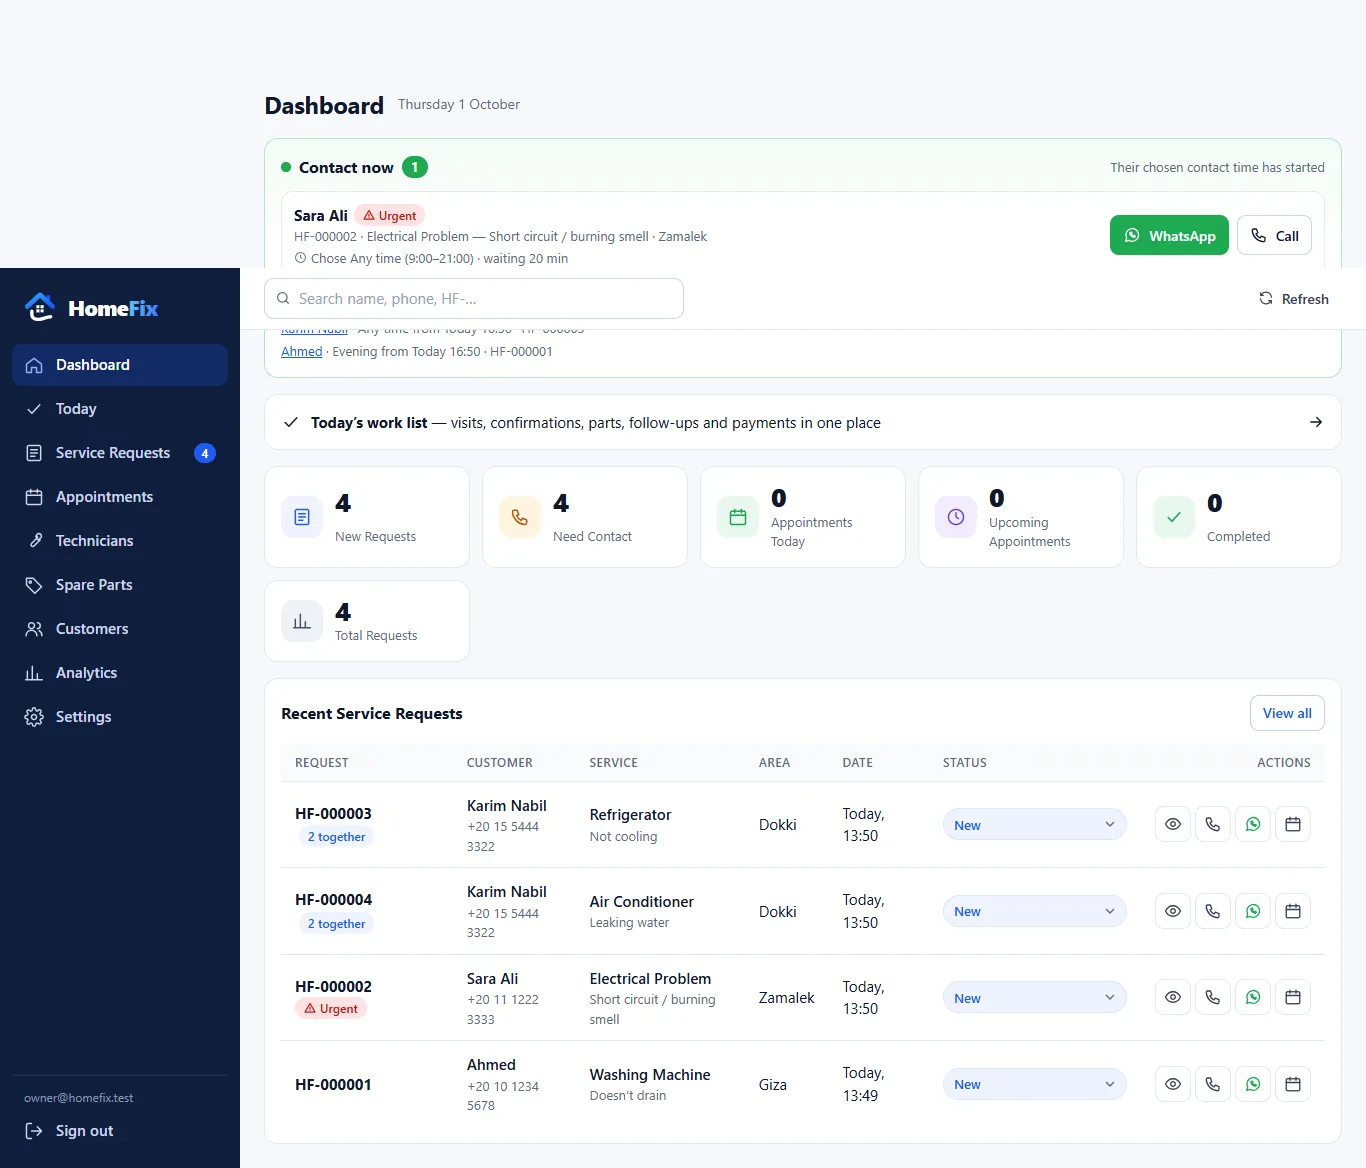
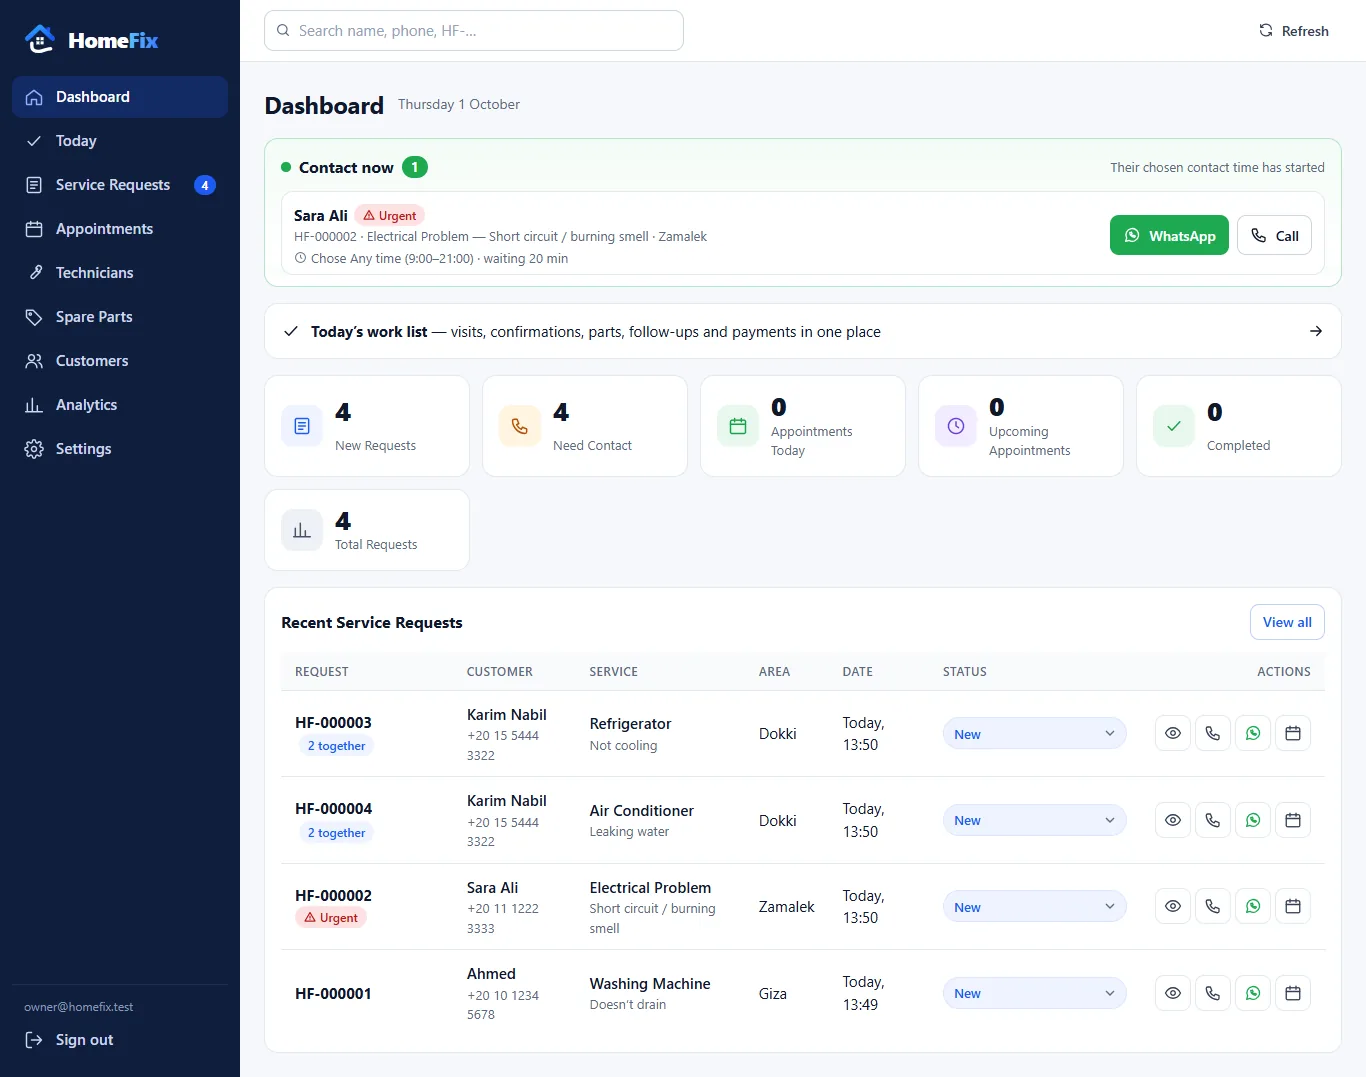
Fix broken HomeFix dashboard screenshot, add email and WhatsApp contact

diff --git a/index.html b/index.html
@@ -22,7 +22,7 @@
 <body>
 <!--
   EDIT BEFORE PUBLISHING — every link that needs your real value is marked TODO:
-  your email, WhatsApp number, the two live demo URLs and your GitHub.
+  the two live demo URLs.
 -->
 
 <header class="nav">
@@ -44,7 +44,7 @@
   <!-- HERO -->
   <section class="hero wrap">
     <div class="hero-art" aria-hidden="true">
-      <img class="ha-browser" src="assets/img/homefix-dashboard.webp" alt="" width="1366" height="1168">
+      <img class="ha-browser" src="assets/img/homefix-dashboard.webp" alt="" width="1366" height="1077">
       <img class="ha-phone" src="assets/img/baseline-home.webp" alt="" width="470" height="780">
     </div>
     <p class="eyebrow"><span class="dot"></span> Available for freelance projects</p>
@@ -127,7 +127,7 @@
           </figure>
           <figure class="browser">
             <div class="bar"><i></i><i></i><i></i><span>Admin dashboard</span></div>
-            <img src="assets/img/homefix-dashboard.webp" alt="HomeFix admin dashboard listing new service requests, with WhatsApp and call buttons" width="1366" height="1168" loading="lazy">
+            <img src="assets/img/homefix-dashboard.webp" alt="HomeFix admin dashboard listing new service requests, with WhatsApp and call buttons" width="1366" height="1077" loading="lazy">
           </figure>
           <div class="phones">
             <figure class="phone"><img src="assets/img/homefix-mobile.webp" alt="HomeFix on a phone, English" width="420" height="1786" loading="lazy"><figcaption>Mobile-first</figcaption></figure>
@@ -244,8 +244,8 @@
       <h2>Have a project in mind?</h2>
       <p>Tell me what you're trying to do. I'll reply within one working day with questions or a rough plan.</p>
       <div class="cta-row">
-        <a class="btn btn-light" href="mailto:you@example.com?subject=Project%20enquiry">Email me</a><!-- TODO: your email -->
-        <a class="btn btn-ghost-light" href="https://wa.me/200000000000" target="_blank" rel="noopener">WhatsApp</a><!-- TODO: your number, digits only -->
+        <a class="btn btn-light" href="mailto:habdelkader676@gmail.com?subject=Project%20enquiry">Email me</a>
+        <a class="btn btn-ghost-light" href="https://wa.me/201223245000" target="_blank" rel="noopener">WhatsApp</a>
         <a class="btn btn-ghost-light" href="https://github.com/habdelkaderr" target="_blank" rel="noopener">GitHub</a>
       </div>
     </div>
